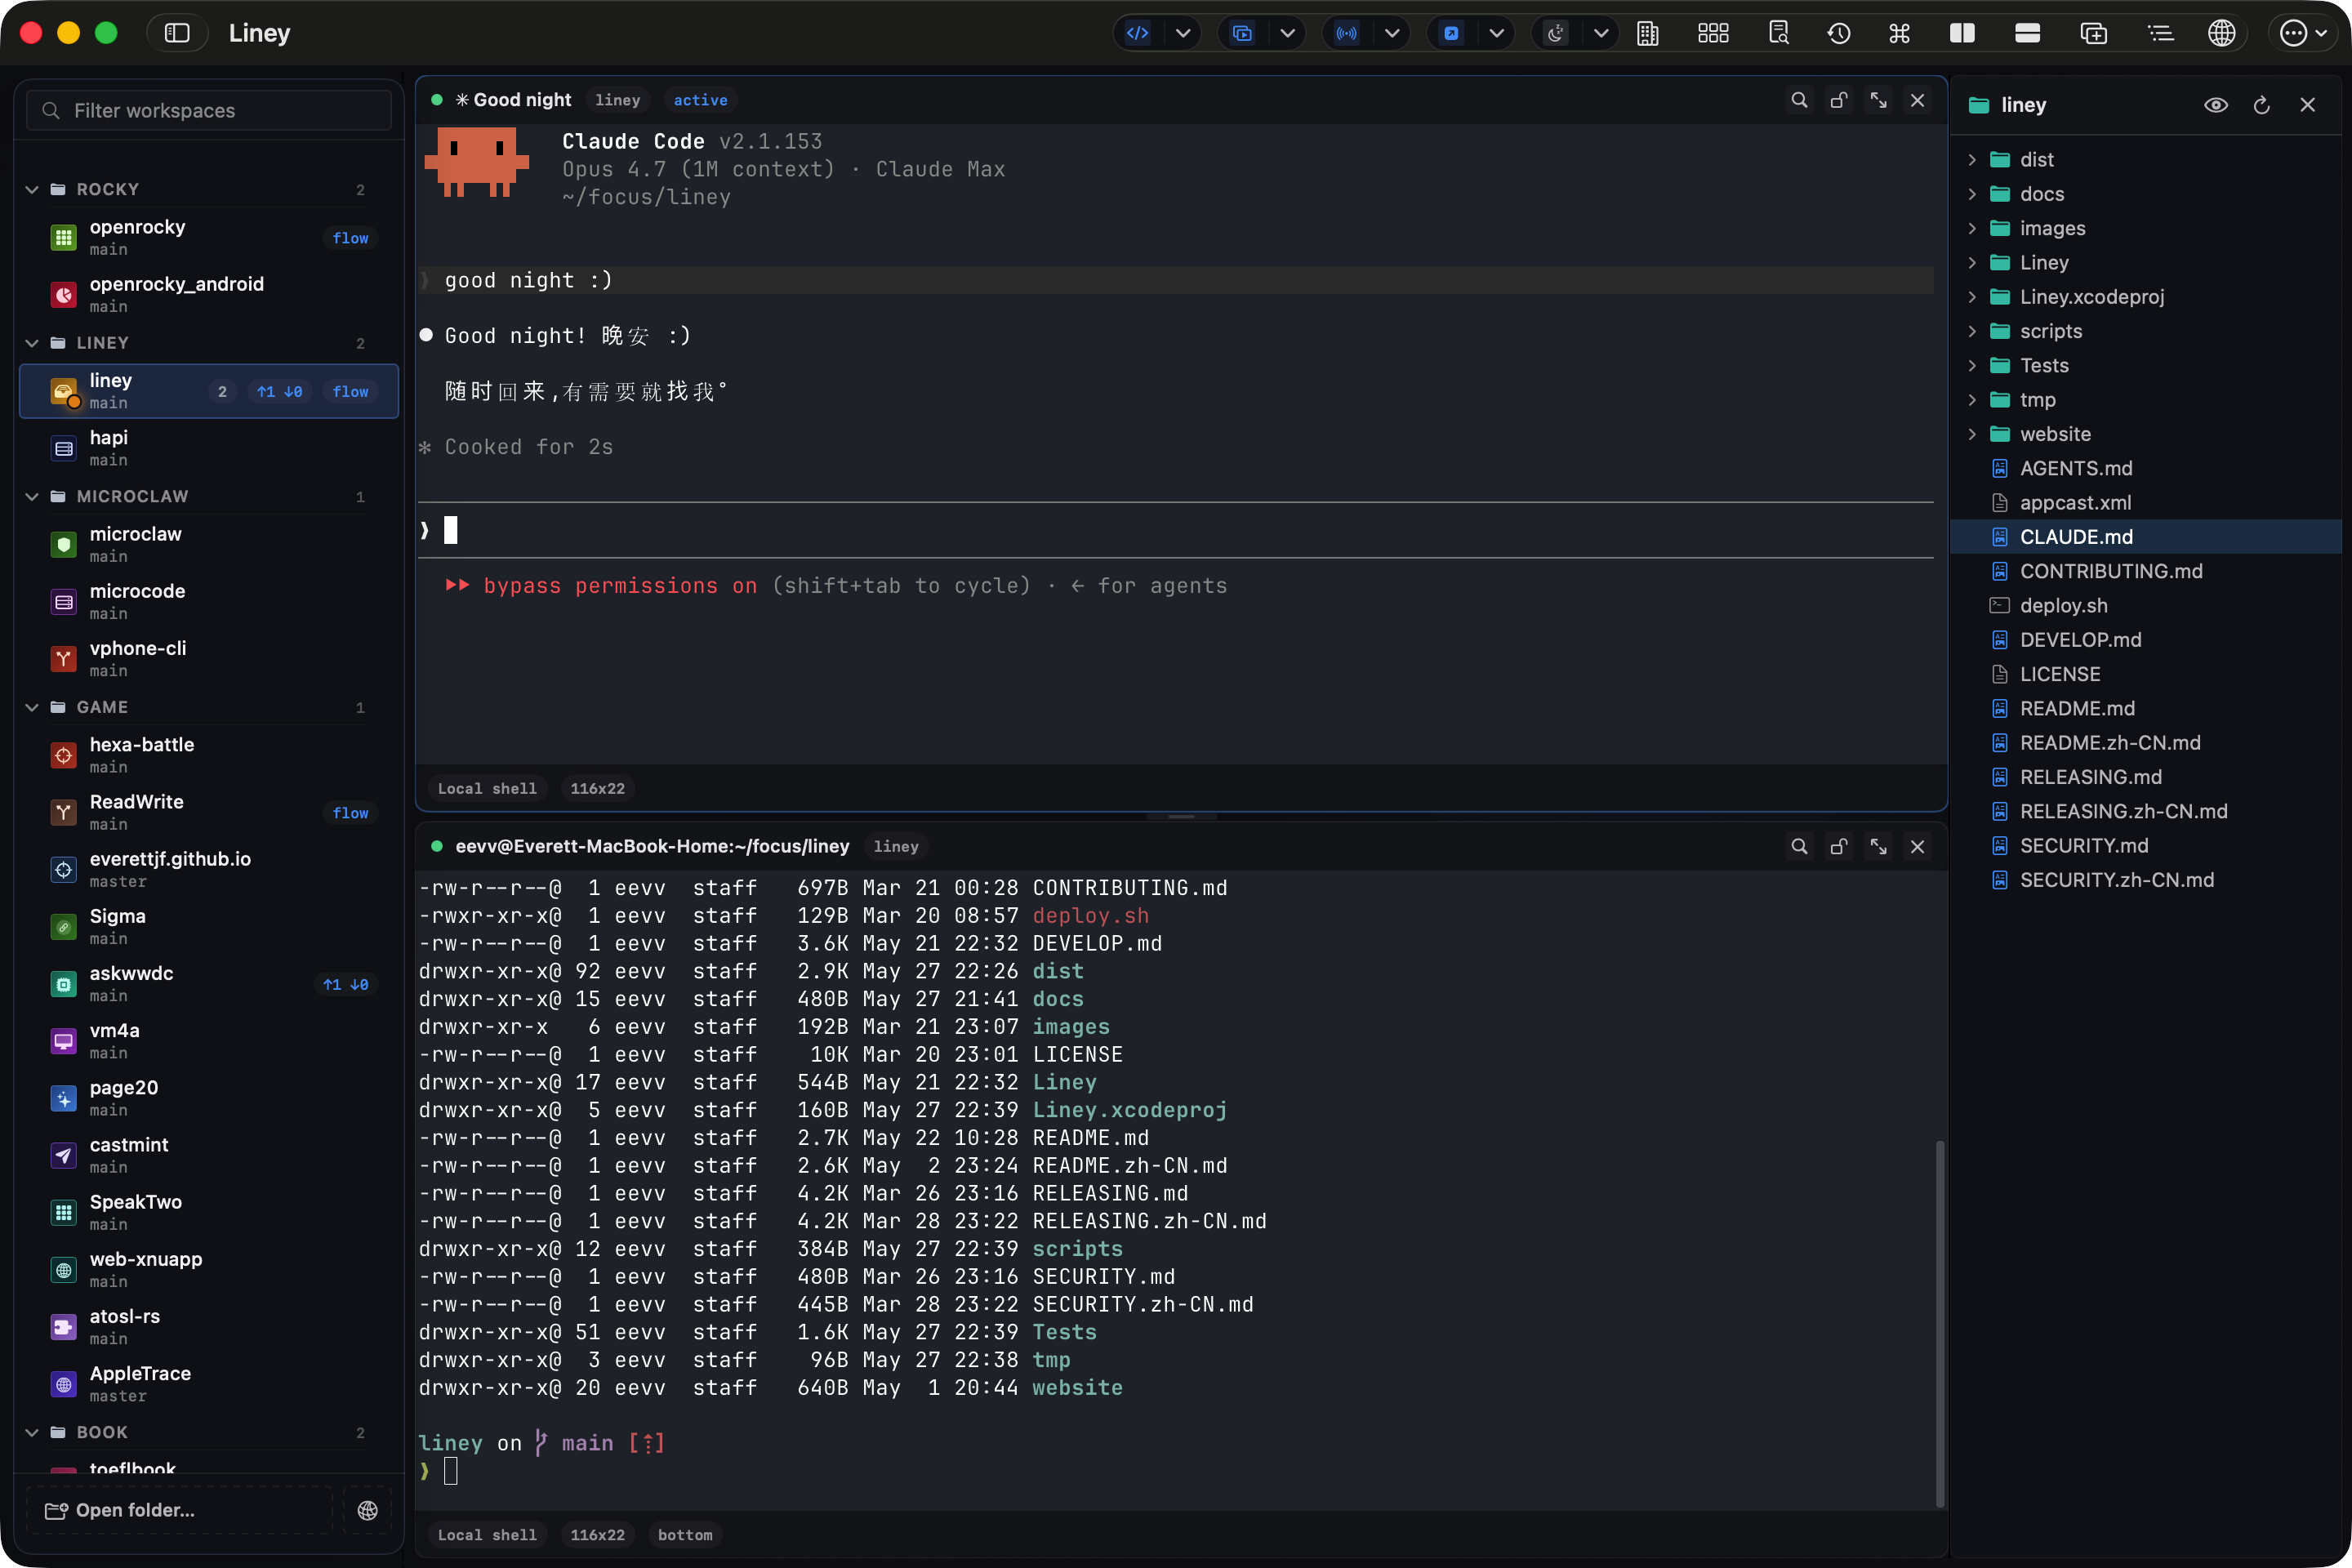
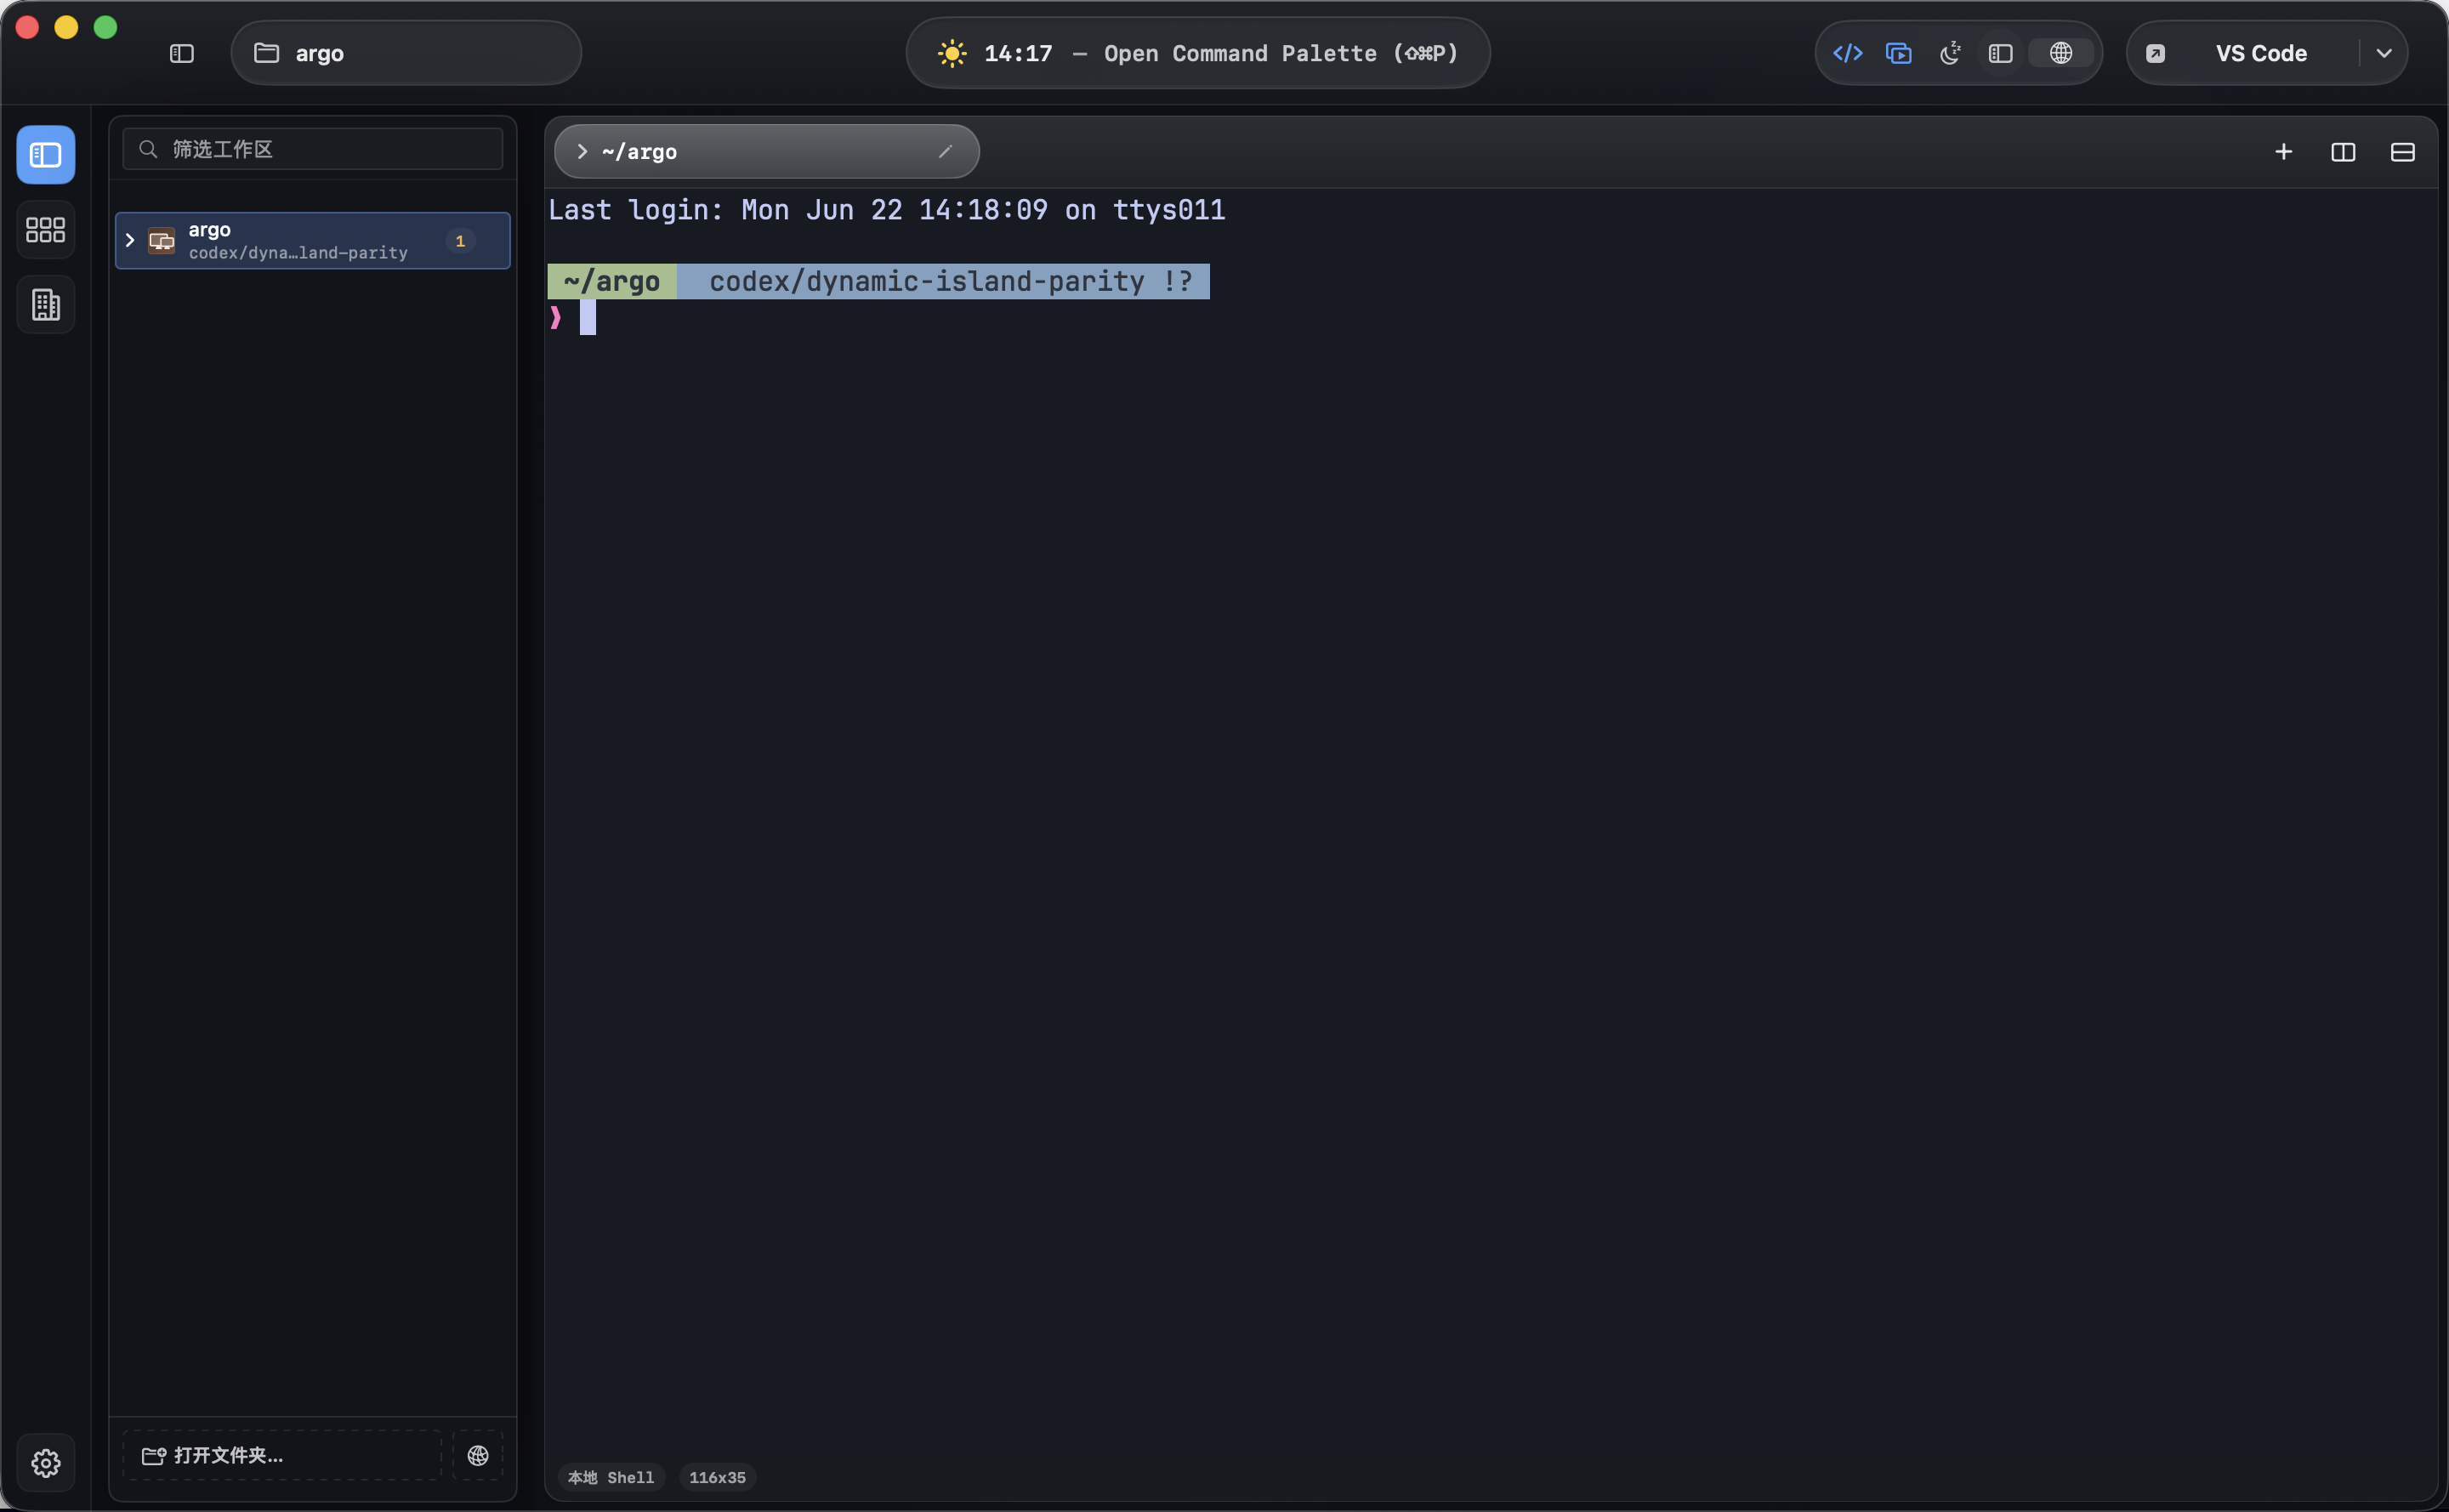
feat(web): add screenshot

diff --git a/website/styles.css b/website/styles.css
@@ -247,115 +247,25 @@ main {
 .hero-visual {
   position: relative;
   min-width: 0;
-  padding: 22px 0 54px;
-}
-
-.orbit-line {
-  position: absolute;
-  inset: 9% -8% auto auto;
-  width: 72%;
-  height: 72%;
-  border: 1px solid rgba(95, 215, 202, 0.2);
-  border-radius: 999px;
-  transform: rotate(-17deg);
-  opacity: 0.7;
+  padding: 22px 0;
 }
 
 .app-window {
   position: relative;
-  z-index: 2;
   margin: 0;
   overflow: hidden;
   border: 1px solid rgba(235, 252, 255, 0.1);
-  border-radius: 8px;
+  border-radius: 10px;
   background: var(--bg-deep);
   box-shadow: var(--shadow), 0 0 0 1px rgba(95, 215, 202, 0.035);
 }
 
-.window-chrome {
-  height: 38px;
-  padding: 0 13px;
-  display: flex;
-  align-items: center;
-  gap: 7px;
-  border-bottom: 1px solid rgba(255, 255, 255, 0.07);
-  background: linear-gradient(180deg, rgba(16, 34, 50, 0.94), rgba(9, 22, 35, 0.94));
-}
-
-.dot {
-  width: 11px;
-  height: 11px;
-  border-radius: 50%;
-  background: rgba(255, 255, 255, 0.25);
-}
-
-.dot.red {
-  background: #ff6157;
-}
-
-.dot.yellow {
-  background: #ffc04d;
-}
-
-.dot.green {
-  background: #48d778;
-}
-
-.window-title {
-  margin-left: 8px;
-  color: rgba(213, 229, 246, 0.56);
-  font-size: 12px;
-  line-height: 1;
-  font-weight: 560;
-  letter-spacing: 0;
-}
-
 .app-window img {
   width: 100%;
-  aspect-ratio: 16 / 9.6;
+  aspect-ratio: 2880 / 1778;
   object-fit: cover;
   object-position: 50% 0;
   background: var(--bg-mid);
-}
-
-.status-card {
-  position: absolute;
-  z-index: 3;
-  right: 22px;
-  bottom: 4px;
-  width: min(290px, 48%);
-  padding: 14px 15px;
-  display: grid;
-  gap: 5px;
-  border: 1px solid rgba(95, 215, 202, 0.18);
-  border-radius: 8px;
-  background: rgba(6, 18, 21, 0.78);
-  box-shadow: 0 18px 46px rgba(0, 0, 0, 0.26);
-  backdrop-filter: blur(18px);
-}
-
-.status-card strong {
-  color: var(--text-primary);
-  font-size: 13px;
-  line-height: 18px;
-  font-weight: 650;
-}
-
-.status-card span {
-  color: var(--text-secondary);
-  font-size: 12.2px;
-  line-height: 18px;
-}
-
-.floating-icon {
-  position: absolute;
-  z-index: 4;
-  left: -24px;
-  bottom: 28px;
-  width: 118px;
-  height: 118px;
-  border-radius: 26px;
-  box-shadow: 0 20px 54px rgba(0, 0, 0, 0.32);
 }
 
 .feature-strip {
@@ -548,45 +458,7 @@ main {
 
   .hero-visual {
     margin-top: 34px;
-    padding: 0 0 84px;
-  }
-
-  .orbit-line {
-    width: 88%;
-    height: 64%;
-    inset: 8% -20% auto auto;
-  }
-
-  .window-chrome {
-    height: 34px;
-  }
-
-  .window-title {
-    display: none;
-  }
-
-  .floating-icon {
-    left: 13px;
-    bottom: 19px;
-    width: 72px;
-    height: 72px;
-    border-radius: 18px;
-  }
-
-  .status-card {
-    right: 12px;
-    bottom: 15px;
-    width: min(232px, calc(100% - 96px));
-    padding: 11px 12px;
-  }
-
-  .status-card strong {
-    font-size: 12px;
-  }
-
-  .status-card span {
-    font-size: 11.5px;
-    line-height: 16px;
+    padding: 0;
   }
 
   .feature-strip,

diff --git a/website/index.html b/website/index.html
@@ -39,22 +39,9 @@
         </div>
 
         <div class="hero-visual" aria-label="Argo workspace preview">
-          <div class="orbit-line" aria-hidden="true"></div>
           <figure class="app-window">
-            <div class="window-chrome" aria-hidden="true">
-              <span class="dot red"></span>
-              <span class="dot yellow"></span>
-              <span class="dot green"></span>
-              <span class="window-title">Argo workspace</span>
-            </div>
             <img src="./assets/hero-workspace.png" alt="Argo workspace with sidebar, split terminal panes, and file workbench">
           </figure>
-          <aside class="status-card" aria-label="Agent completion status">
-            <strong>liney / main</strong>
-            <span>✓ 23 tests passed · agent complete</span>
-            <span>pane layout restored</span>
-          </aside>
-          <img class="floating-icon" src="./assets/app-icon.png" alt="" width="118" height="118">
         </div>
       </section>
 